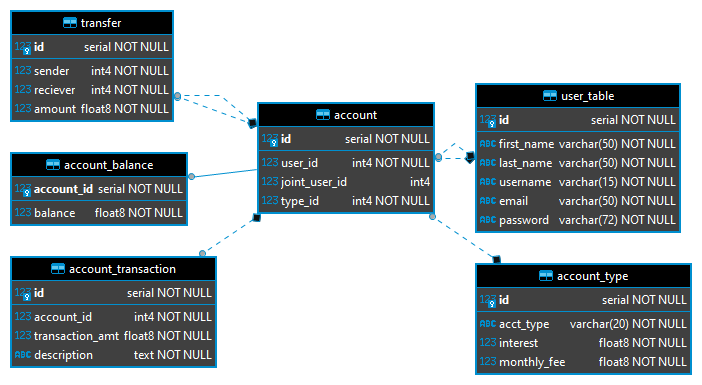
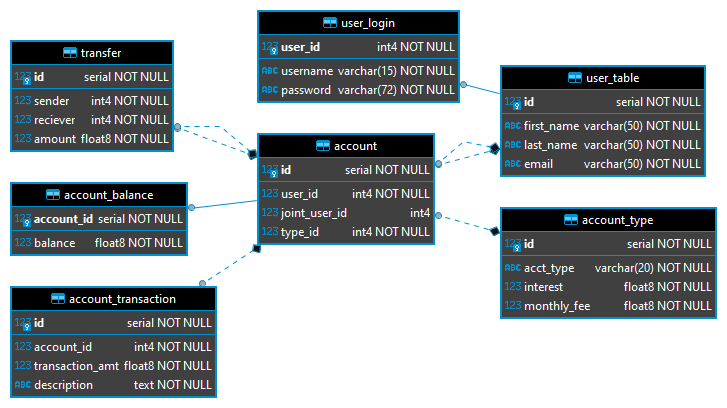
restructured SQL and ERD

diff --git a/Bank-App/src/main/java/com/revature/p0/models/account/BankUser.java b/Bank-App/src/main/java/com/revature/p0/models/account/BankUser.java
@@ -11,20 +11,23 @@ public class BankUser {
     private int uID;
     private String fName;
     private String lName;
+    private String uName;
     private String email;
     private String password;
 
-    public BankUser(String fName, String lName, String email, String password) {
+    public BankUser(String fName, String lName, String uName, String email, String password) {
         this.fName = fName;
         this.lName = lName;
+        this.uName = uName;
         this.email = email;
         this.password = password;
     }
 
-    public BankUser(int uID, String fName, String lName, String email, String password) {
+    public BankUser(int uID, String fName, String lName, String uName, String email, String password) {
         this.uID = uID;
         this.fName = fName;
         this.lName = lName;
+        this.uName = uName;
         this.email = email;
         this.password = password;
     }
@@ -51,6 +54,14 @@ public class BankUser {
 
     public void setlName(String lName) {
         this.lName = lName;
+    }
+
+    public String getuName() {
+        return uName;
+    }
+
+    public void setuName(String uName) {
+        this.uName = uName;
     }
 
     public String getEmail() {

diff --git a/Bank-App/src/main/java/com/revature/p0/models/account/AccountTransaction.java b/Bank-App/src/main/java/com/revature/p0/models/account/AccountTransaction.java
@@ -8,18 +8,15 @@ package com.revature.p0.models.account;
  * Description: {Insert Description}
  */
 public class AccountTransaction {
-    private int transactionID;
     private int acctID;
+    private int transactionID;
+    private String description;
     private double transactionAmt;
 
-    public AccountTransaction(int transactionID, int acctID, double transactionAmt) {
+    public AccountTransaction(int acctID, int transactionID, String description, double transactionAmt) {
+        this.acctID = acctID;
         this.transactionID = transactionID;
-        this.acctID = acctID;
-        this.transactionAmt = transactionAmt;
-    }
-
-    public AccountTransaction(int acctID, double transactionAmt) {
-        this.acctID = acctID;
+        this.description = description;
         this.transactionAmt = transactionAmt;
     }
 

diff --git a/Bank-App/src/main/java/com/revature/p0/util/scenemgmt/ScreenRouter.java b/Bank-App/src/main/java/com/revature/p0/util/scenemgmt/ScreenRouter.java
@@ -1,4 +1,7 @@
-package main.java.com.revature.p0.util.scenemgmt;
+package com.revature.p0.util.scenemgmt;
+
+import com.revature.p0.screens.Screen;
+import com.revature.p0.util.datastructs.linkedlist.LinkedList;
 
 /**
  * Created by IntelliJ IDEA.
@@ -8,4 +11,20 @@ package main.java.com.revature.p0.util.scenemgmt;
  * Description: {Insert Description}
  */
 public class ScreenRouter {
+
+    private LinkedList<Screen> screens = new LinkedList<>();
+
+    public ScreenRouter addScreen(Screen screen) {
+        screens.add(screen);
+        return this;
+    }
+
+    public void navigate(String route) {
+        for (int i = 0; i < screens.size(); i++) {
+            Screen screen = screens.get(i);
+            if (screen.getRoute().equals(route)) {
+                screen.render();
+            }
+        }
+    }
 }

diff --git a/Bank-App/src/main/java/com/revature/p0/screens/Screen.java b/Bank-App/src/main/java/com/revature/p0/screens/Screen.java
@@ -1,9 +1,29 @@
-package com.revature.p0.screens;/**
+package com.revature.p0.screens;
+
+/**
  * Created by IntelliJ IDEA.
  * User: Jbialon
  * Date: 5/5/2021
  * Time: 9:06 AM
  * Description: {Insert Description}
  */
- public class Screen {
+public abstract class Screen {
+
+    protected String name;
+    protected String route;
+
+    public Screen(String name, String route) {
+        this.name = name;
+        this.route = route;
+    }
+
+    public String getName() {
+        return name;
+    }
+
+    public String getRoute() {
+        return route;
+    }
+
+    public abstract void render();
 }

diff --git a/Bank-App/src/main/java/com/revature/p0/Driver.java b/Bank-App/src/main/java/com/revature/p0/Driver.java
@@ -12,12 +12,11 @@ import com.revature.p0.util.datastructs.linkedlist.LinkedList;
  */
 public class Driver {
     public static void main(String[] args) {
+
         LinkedList<AccountTransaction> test = new LinkedList();
 
-        test.add(new AccountTransaction(1,1,1000.25));
+        test.add(new AccountTransaction(1,1, "TEST", 1000.25));
 
         System.out.println(test.get(0).getTransactionAmt());
-
-
     }
 }

diff --git a/Bank-App/src/main/java/com/revature/p0/screens/WelcomeScreen.java b/Bank-App/src/main/java/com/revature/p0/screens/WelcomeScreen.java
@@ -1,9 +1,12 @@
-package com.revature.p0.screens;/**
+package com.revature.p0.screens;
+
+/**
  * Created by IntelliJ IDEA.
  * User: Jbialon
  * Date: 5/5/2021
  * Time: 9:09 AM
  * Description: {Insert Description}
  */
- public class WelcomeScreen {
+public class WelcomeScreen {
+
 }

diff --git a/Bank-App/src/main/java/com/revature/p0/util/scenemgmt/AppState.java b/Bank-App/src/main/java/com/revature/p0/util/scenemgmt/AppState.java
@@ -1,4 +1,4 @@
-package main.java.com.revature.p0.util.scenemgmt;
+package com.revature.p0.util.scenemgmt;
 
 /**
  * Created by IntelliJ IDEA.
